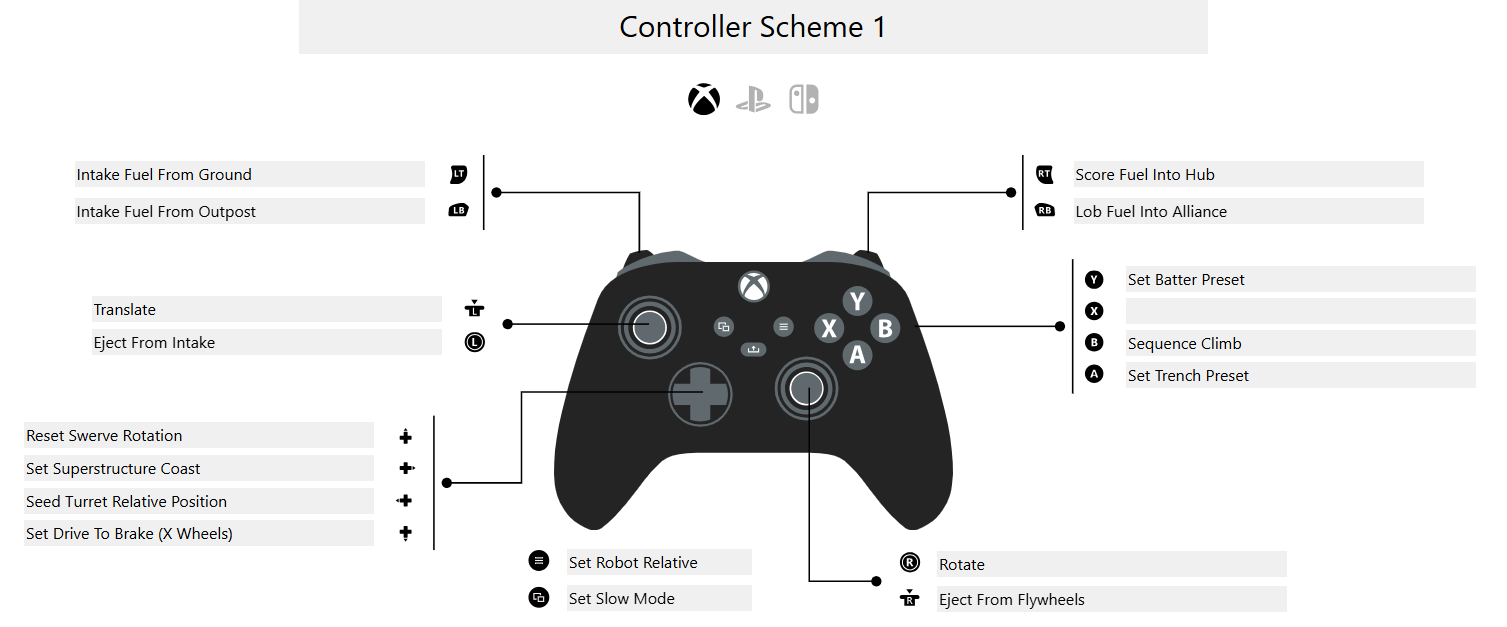
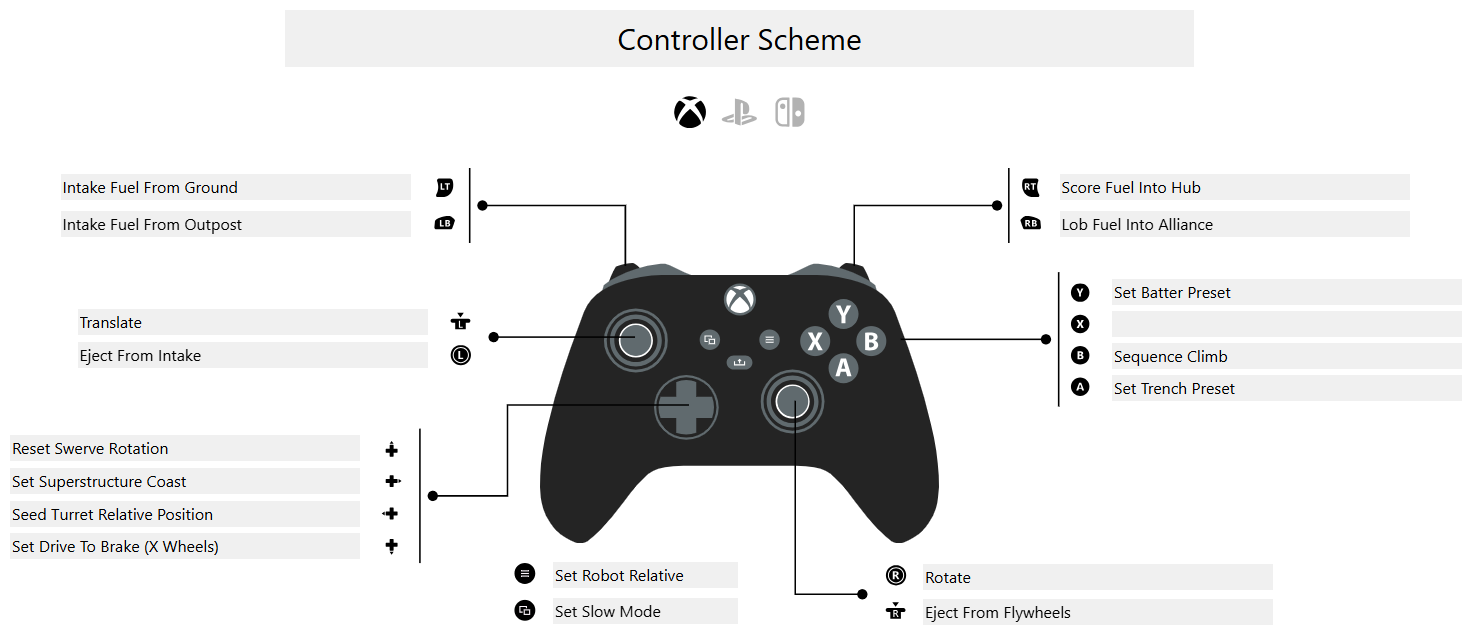
Another update README.md

diff --git a/docs/README.md b/docs/README.md
@@ -50,7 +50,7 @@ This is a ground-up rewrite of our robot code for the 2026 FIRST Robotics game *
 
 ![Controller Layout](../images/ControllerLayout.png)
 
-[View interactive version on PadCrafter](https://www.padcrafter.com/?templates=Controller+Scheme+1&plat=0&leftStick=Eject+From+Intake&rightStickClick=Eject+From+Flywheels&rightStick=Rotate&leftStickClick=Translate&dpadUp=Reset+Swerve+Rotation&dpadRight=Set+Superstructure+Coast&dpadLeft=Seed+Turret+Relative+Position&dpadDown=Set+Drive+To+Brake+%28X+Wheels%29&backButton=Set+Slow+Mode&startButton=Set+Robot+Relative&yButton=Set+Batter+Preset&xButton=&aButton=Set+Trench+Preset&bButton=Sequence+Climb&leftTrigger=Intake+Fuel+From+Ground&rightTrigger=Score+Fuel+Into+Hub&leftBumper=Intake+Fuel+From+Outpost&rightBumper=Lob+Fuel+Into+Alliance&col=%23242424%2C%23606A6E%2C%23FFFFFF)
+[View interactive version on PadCrafter](https://www.padcrafter.com/?templates=Controller+Scheme&plat=0&leftStick=Eject+From+Intake&rightStickClick=Eject+From+Flywheels&rightStick=Rotate&leftStickClick=Translate&dpadUp=Reset+Swerve+Rotation&dpadRight=Set+Superstructure+Coast&dpadLeft=Seed+Turret+Relative+Position&dpadDown=Set+Drive+To+Brake+%28X+Wheels%29&backButton=Set+Slow+Mode&startButton=Set+Robot+Relative&yButton=Set+Batter+Preset&xButton=&aButton=Set+Trench+Preset&bButton=Sequence+Climb&leftTrigger=Intake+Fuel+From+Ground&rightTrigger=Score+Fuel+Into+Hub&leftBumper=Intake+Fuel+From+Outpost&rightBumper=Lob+Fuel+Into+Alliance&col=%2523242424%2C%2523606A6E%2C%2523FFFFFF)
 
 ## Development Notes
 
